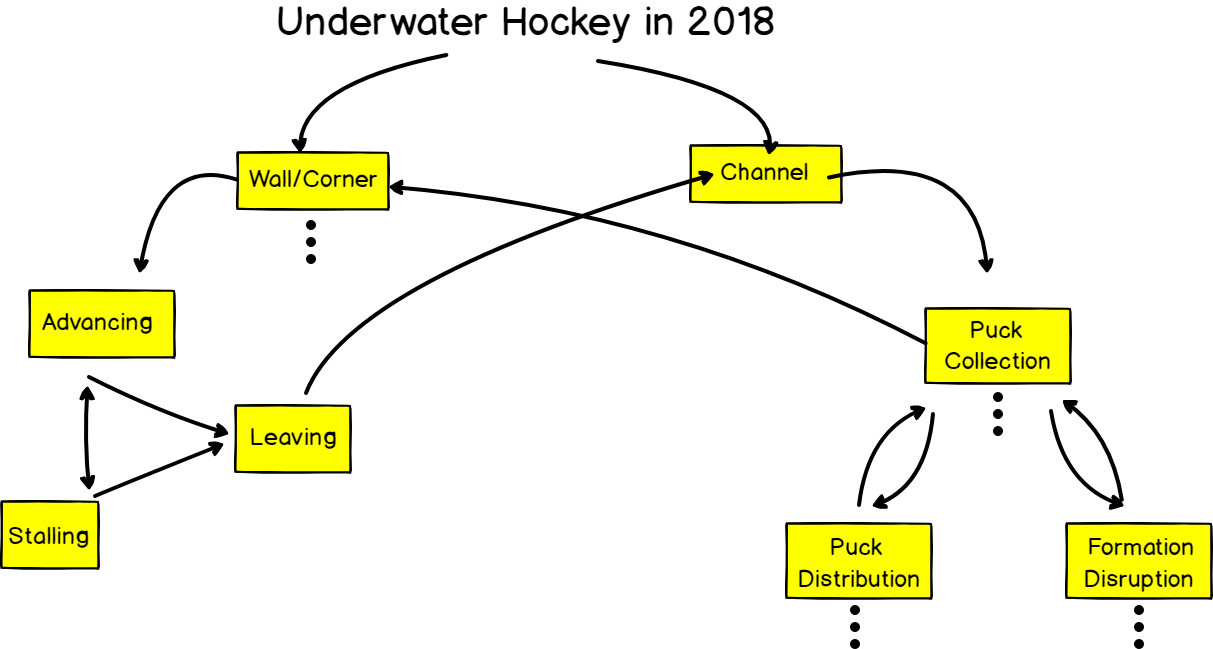
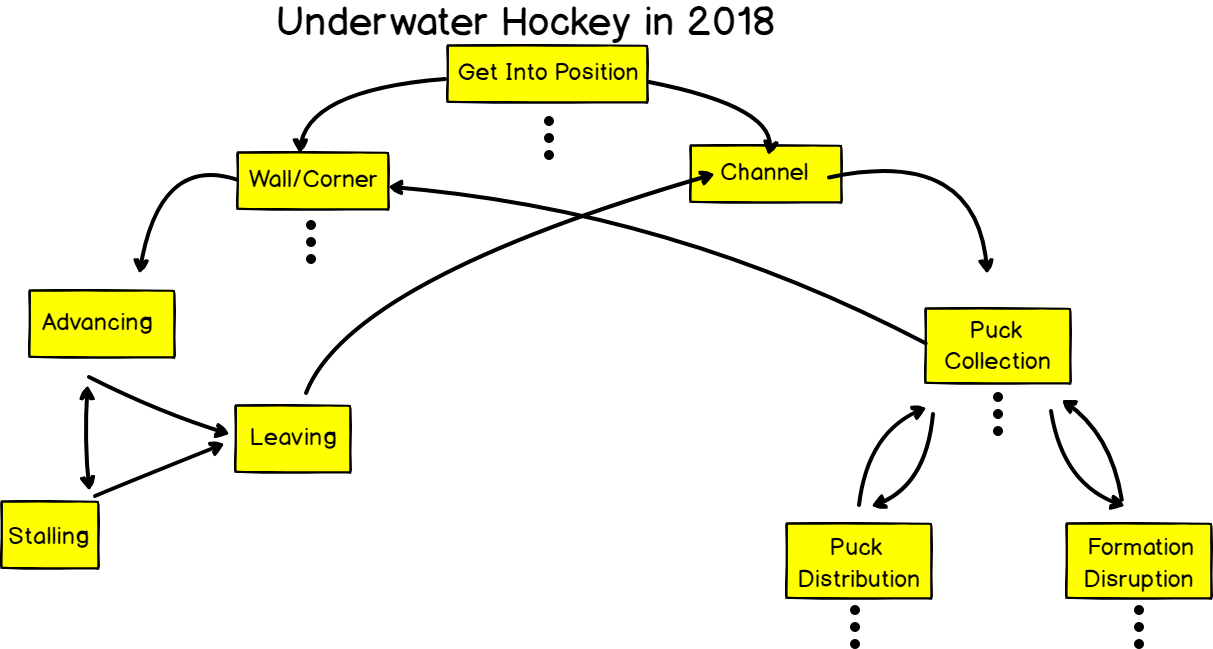
added Getting_Into_Position phase

Changed region(s): [[0.2745, 0.0616, 0.6406, 0.2465], [0.244, 0.1541, 0.2745, 0.2157]]

diff --git a/phase.js b/phase.js
@@ -24,7 +24,8 @@ var Phase_Options = [
     {id: 1, name: "Wall_Corner", x: 19.5, y: 23.5, width:12.4, height: 9, el: null},
     {id: 2, name: "Puck_Collection", x: 76.5, y: 47.2, width: 12, height: 12, el: null},
     {id: 3, name: "Puck_Distribution", x: 64.8, y: 80.5, width: 11.9, height: 11.6, el: null},
-    {id: 4, name: "Formation_Displacement", x: 88, y: 80.5, width: 11.7, height: 11.6, el: null}
+    {id: 4, name: "Formation_Displacement", x: 88, y: 80.5, width: 11.7, height: 11.6, el: null},
+    {id: 5, name: "Getting_Into_Position", x: 37, y: 7, width: 16.2, height: 9.2, el: null}
 ];
 
 var Phase_Keys = [
